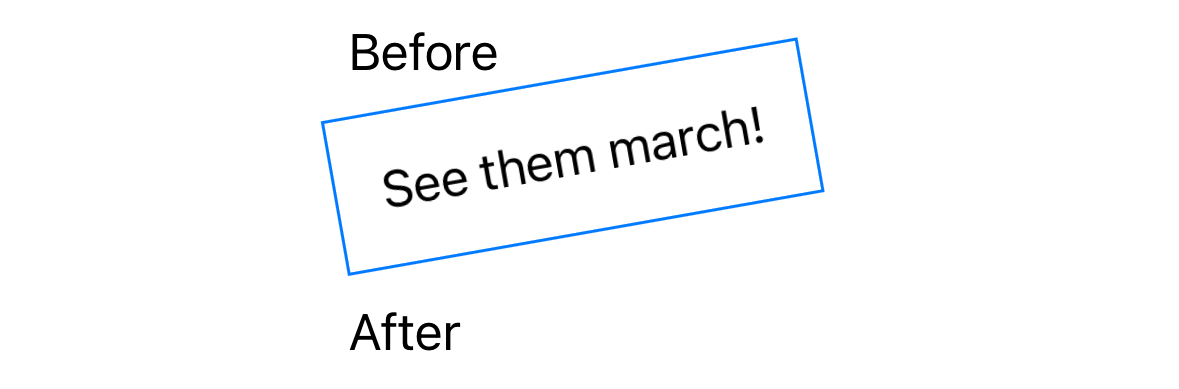
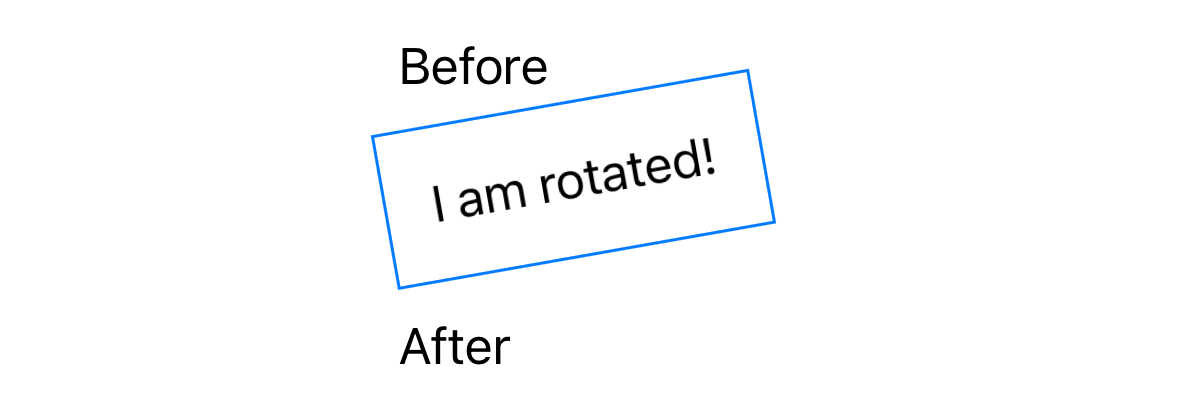
more SwiftUI

Changed region(s): [[0.2748, 0.0925, 0.7023, 0.7095], [0.2748, 0.7712, 0.4275, 0.9254]]

diff --git a/src/swift/SwiftUI.md b/src/swift/SwiftUI.md
@@ -1089,13 +1089,20 @@ Card(
 
 ## View Modifiers
 
-View modifiers are methods that can be called on a view.
-They don't modify the view. They create a new view
-that is like the receiver, but modified in a specific way.
-Calls to view modifiers can be chained since each returns a new view.
+A view modifier is a subtype of the {% aTargetBlank
+"https://developer.apple.com/documentation/swiftui/viewmodifier",
+"ViewModifier" %} protocol.
+View modifiers do not modify the view on which they are called.
+They create and return a new view that either
+wraps the receiver (ex. `frame`) or
+is a modified version of the receiver (ex. `foregroundColor`).
 
-The following example uses the `foregroundColor`, `padding`, and `stroke`
-view modifiers.
+For most view modifiers there is a method in the `View` protocol
+that makes it easy to apply the view modifier to a view.
+
+Calls to view modifiers can be chained since each returns a view.
+The following example demonstrates using the
+`foregroundColor`, `padding`, and `stroke` view modifiers.
 
 ```swift
 Text("Hello, World!")
@@ -1111,17 +1118,12 @@ Others are specific to certain kinds of views.
 For example, the `stroke` view modifier can only be applied
 to views that implement the `Shape` protocol.
 
-The official documentation for the supplied view modifiers can be found at
-{% aTargetBlank
-"https://developer.apple.com/documentation/swiftui/slider-view-modifiers",
-"View Modifiers" %}.
-
 Commonly used view modifiers include:
 
 - `background(alignment, content)`
 - `border(ShapeStyle, width: CGFloat = 1)`
 - `cornerRadius(CGFloat, antialiased: Bool)`
-- `disabled(Bool)` disables any form input such as a `Button`
+- `disabled(Bool)` disables a form input such as a `Button`
 - `edgesIgnoringSafeArea(Edge.Set)`
 - `font(Font?)`
 - `foregroundColor(Color?)`
@@ -1162,6 +1164,16 @@ The {% aTargetBlank
 wraps across multiple lines should be horizontally aligned.
 It can be passed `.leading` (default), `.center`, or `.trailing`.
 
+The {% aTargetBlank
+"https://developer.apple.com/documentation/swiftui/view/padding(_:_:)",
+"padding" %} view modifier adds padding to view.
+It can be passed a side which can be a single value or an array of
+`.all` (default), `.leading`, `.trailing`,
+`.horizontal` (same as `.leading` and `.trailing`),
+`.top`, `.bottom`, or `.vertical` (same as `.top` and `.bottom`).
+It can also be passed a `CGFloat` value for the length.
+The length defaults to `nil` and means to use the system default of 20.
+
 The following view modifiers change the styling
 of specific kinds of predefined views.
 
@@ -1173,35 +1185,36 @@ of specific kinds of predefined views.
 - `labelStyle(LabelStyle)`
 - `menuStyle(MenuStyle)`
 - `navigationViewStyle(NavigationViewStyle)`
-- `offset(x: CGFloat, y: CGFloat)`
 - `pickerStyle(PickerStyle)`
-- `position(x: CGFloat, y: CGFloat)`
 - `progressViewStyle(ProgressViewStyle)`
 - `presentedWindowStyle(WindowStyle)`
 - `presentedWindowToolbarStyle(WindowToolbarStyle)`
+- `tableStyle(TableStyle)`
+- `tabViewStyle(TabViewStyle)`
+- `textFieldStyle(TextFieldStyle)`
+- `toggleStyle(ToggleStyle)`
+
+The following view modifiers can change the colors used in a view.
+
+- `background(alignment, content)`
+- `foregroundColor(Color?)`
+- `foregroundStyle(ShapeStyle)`
+- `shadow(color: Color, radius: CGFloat, x: CGFloat, y: CGFloat)`
+- `tint(Color?)`
+
+The following view modifiers change the
+size, position, or orientation of a view.
+
+- `offset(x: CGFloat, y: CGFloat)`
+- `position(x: CGFloat, y: CGFloat)`
 - `rotation3DEffect(angle, axis, anchor, anchorZ, perspective)`
 - `rotationEffect(angle: Angle, anchor: UnitPoint)`
 - `scaledToFill()`
 - `scaledToFit()`
 - `scaleEffect(x: CGFloat, y: CGFloat, anchor: UnitPoint)`
-- `shadow(color: Color, radius: CGFloat, x: CGFloat, y: CGFloat)`
-- `tableStyle(TableStyle)`
-- `tabViewStyle(TabViewStyle)`
 - `textCase(Text.Case?)`
-- `textFieldStyle(TextFieldStyle)`
-- `tint(Color?)`
-- `toggleStyle(ToggleStyle)`
-
-  This can be passed a side which can be a single value or an array
-  of `.all` (default),
-  `.leading`, `.trailing`, `.horizontal` (same as `.leading` and `.trailing`),
-  `.top`, `.bottom`, or `.vertical` (same as `.top` and `.bottom`).
-  It can also be passed a `CGFloat` value for the length.
-  The length defaults to `nil` and means to use the system default of 20.
-
 - `transformEffect(CGAffineTransform)`
 - `transition(AnyTransition)`
-- `truncationMode(Text.TruncationMode)`
 - `zIndex(Double)`
 
 The {% aTargetBlank
@@ -1218,8 +1231,7 @@ The {% aTargetBlank
 an angle that is specified in degrees or radians.
 By default the view is rotated about its center,
 but this can be changed by specifying the `anchor` argument.
-Similar to the `offset` view modifier, the `rotationEffect` view modifier
-does not affect the layout of other views.
+It does not affect the layout of other views.
 
 For example:
 
@@ -1230,9 +1242,8 @@ For example:
 ```swift
 VStack(alignment: .leading) {
     Text("Before")
-    Text("See them march!")
+    Text("I am rotated!")
         .padding()
-        // .marchingAnts()
         .border(.blue)
         .rotationEffect(.degrees(-10), anchor: .bottomLeading)
     Text("After")
@@ -1244,6 +1255,30 @@ The {% aTargetBlank
 "rotation3DEffect" %} view modifier rotates any view
 around any axes (x, y, and z) in 3D space.
 See the `Card` example in the [ViewBuilders](#viewbuilders) section.
+
+The {% aTargetBlank
+"https://developer.apple.com/documentation/swiftui/view/scaleeffect(_:anchor:)-7q7as",
+"scaleEffect" %} view modifier changes the size of any view.
+By default the view is scaled about its center,
+but this can be changed by specifying the `anchor` argument.
+It does not affect the layout of other views.
+
+For example:
+
+<img alt="SwiftUI scaleEffect" style="width: 60%"
+  src="/blog/assets/SwiftUI-scaleEffect.png?v={{pkg.version}}"
+  title="SwiftUI scaleEffect">
+
+```swift
+VStack(alignment: .leading) {
+    Text("Before")
+    Text("I am scaled!")
+        .padding()
+        .border(.blue)
+        .scaleEffect(1.7, anchor: .center) // using default anchor
+    Text("After")
+}
+```
 
 The following example adds a shadow to a `Text` view:
 
@@ -1257,6 +1292,10 @@ Text("Shadow Demo")
     .background(.yellow)
     .shadow(color: .gray, radius: 3, x: 3, y: 3)
 ```
+
+TODO: WHERE SHOULD THIS GO?
+
+- `truncationMode(Text.TruncationMode)`
 
 The event handling methods like `onTapGesture` area also view modifiers.
 This takes a `count` argument with a default value of 1
